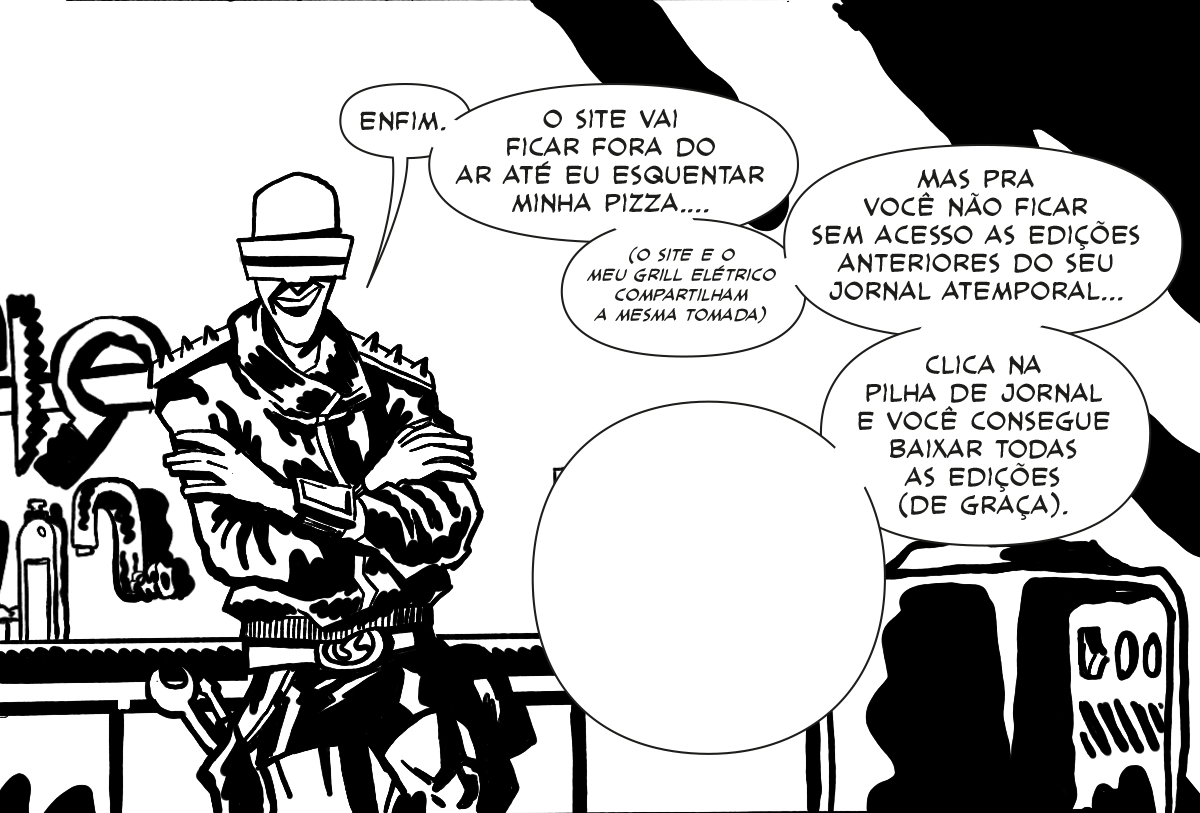
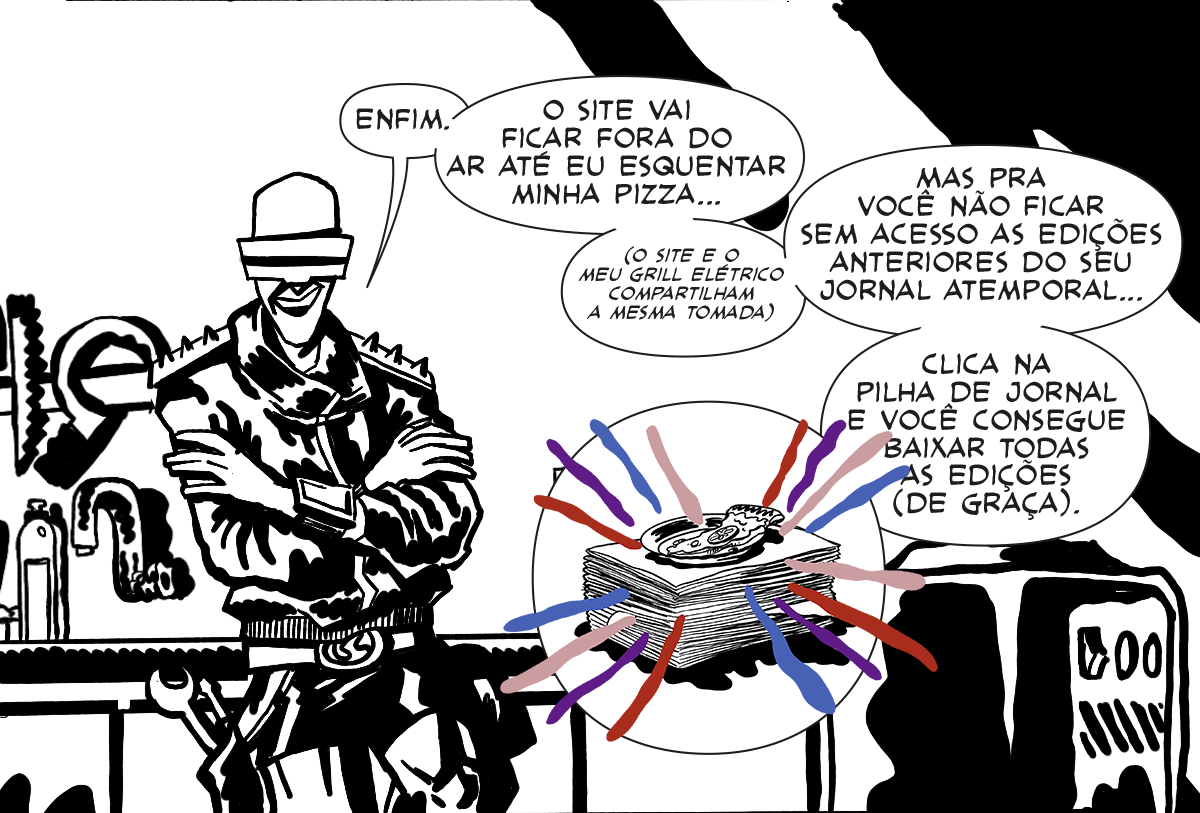
Add new comics

diff --git a/src/components/sections/home/index.tsx b/src/components/sections/home/index.tsx
@@ -52,6 +52,12 @@ export default function Home() {
         width={1200}
         height={850}
       />
+      <Image
+        src="/images/Jennings-TF-Temp_08.png"
+        alt=""
+        width={1200}
+        height={464}
+      />
     </HomeWrapper>
   )
 }
